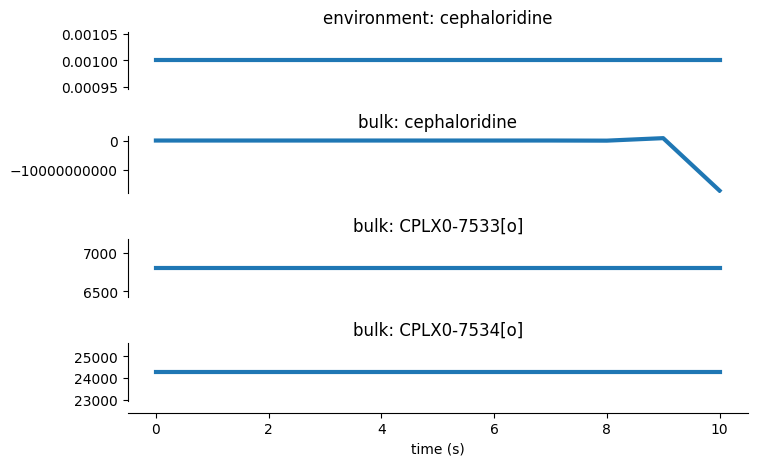
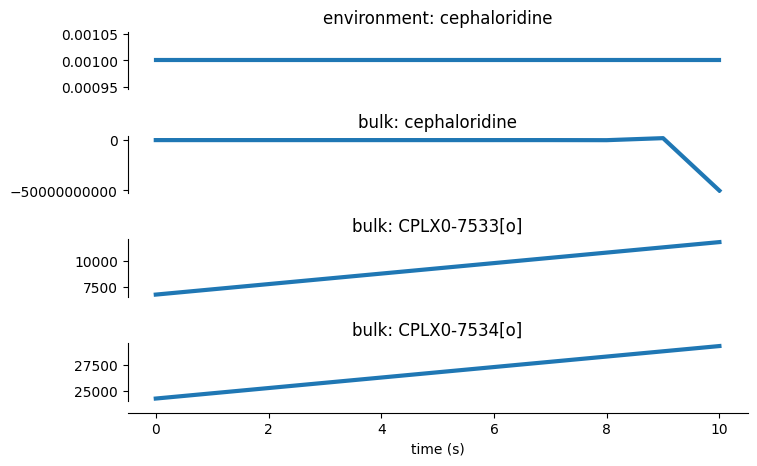
Added timeline process to porin_fickian

diff --git a/ecoli/composites/porin_fickian.py b/ecoli/composites/porin_fickian.py
@@ -6,12 +6,14 @@ from vivarium.plots.simulation_output import plot_variables
 from ecoli.processes.antibiotics.porin_permeability import PorinPermeability, CEPH_OMPC_CON_PERM,\
     CEPH_OMPF_CON_PERM, SA_AVERAGE
 from ecoli.processes.antibiotics.fickian_diffusion import FickianDiffusion
+from vivarium.processes.timeline import TimelineProcess
 from ecoli.states.wcecoli_state import get_state_from_file
 
 
 class PorinFickian(Composer):
     defaults = {
         'fickian': {},
+        'timeline': {},
         'porin_permeability': {},
     }
 
@@ -20,7 +22,9 @@ class PorinFickian(Composer):
 
     def generate_processes(self, config):
         fick_diffusion = FickianDiffusion(config['fickian'])
-        return {'fickian': fick_diffusion}
+        timeline = TimelineProcess(config['timeline'])
+        return {'fickian': fick_diffusion,
+                'timeline': timeline}
 
     def generate_topology(self, config):
         return {
@@ -32,6 +36,10 @@ class PorinFickian(Composer):
                 'volume_global': ('listeners', 'mass',),
                 'mass_global': ('listeners', 'mass',),
                 'permeabilities': ('boundary', 'permeabilities')
+            },
+            'timeline': {
+                'global': ('global',),  # The global time is read here
+                'porins': ('bulk',),  # This port is based on the declared timeline
             },
             'porin_permeability': {
                 'porins': ('bulk',),
@@ -47,7 +55,26 @@ class PorinFickian(Composer):
 
 def main():
     sim_time = 10
+
+    initial_state = get_state_from_file(path='data/vivecoli_t1000.json')
+    initial_state['boundary'] = {}
+    initial_state['boundary']['surface_area'] = SA_AVERAGE
+    initial_state['listeners']['mass']['dry_mass'] = initial_state['listeners']['mass']['dry_mass'] * units.fg
+
+    timeline = []
+    for i in range(10):
+        timeline.append(
+            (i, {
+                ('porins', 'CPLX0-7533[o]'): initial_state['bulk']['CPLX0-7533[o]'] + ((i + 1) * 500),
+                ('porins', 'CPLX0-7534[o]'): initial_state['bulk']['CPLX0-7534[o]'] + ((i + 1) * 500),
+            })
+        )
+
     config = {
+        'timeline': {
+            'time_step': 1.0,
+            'timeline': timeline,
+        },
         'porin_permeability': {
             'porin_ids': ['CPLX0-7533[o]', 'CPLX0-7534[o]'],
             'diffusing_molecules': {
@@ -71,11 +98,6 @@ def main():
     }
     composer = PorinFickian(config)
     composite = composer.generate()
-
-    initial_state = get_state_from_file(path='data/vivecoli_t1000.json')
-    initial_state['boundary'] = {}
-    initial_state['boundary']['surface_area'] = SA_AVERAGE
-    initial_state['listeners']['mass']['dry_mass'] = initial_state['listeners']['mass']['dry_mass'] * units.fg
 
     sim = Engine(composite=composite, initial_state=initial_state)
     sim.update(sim_time)
